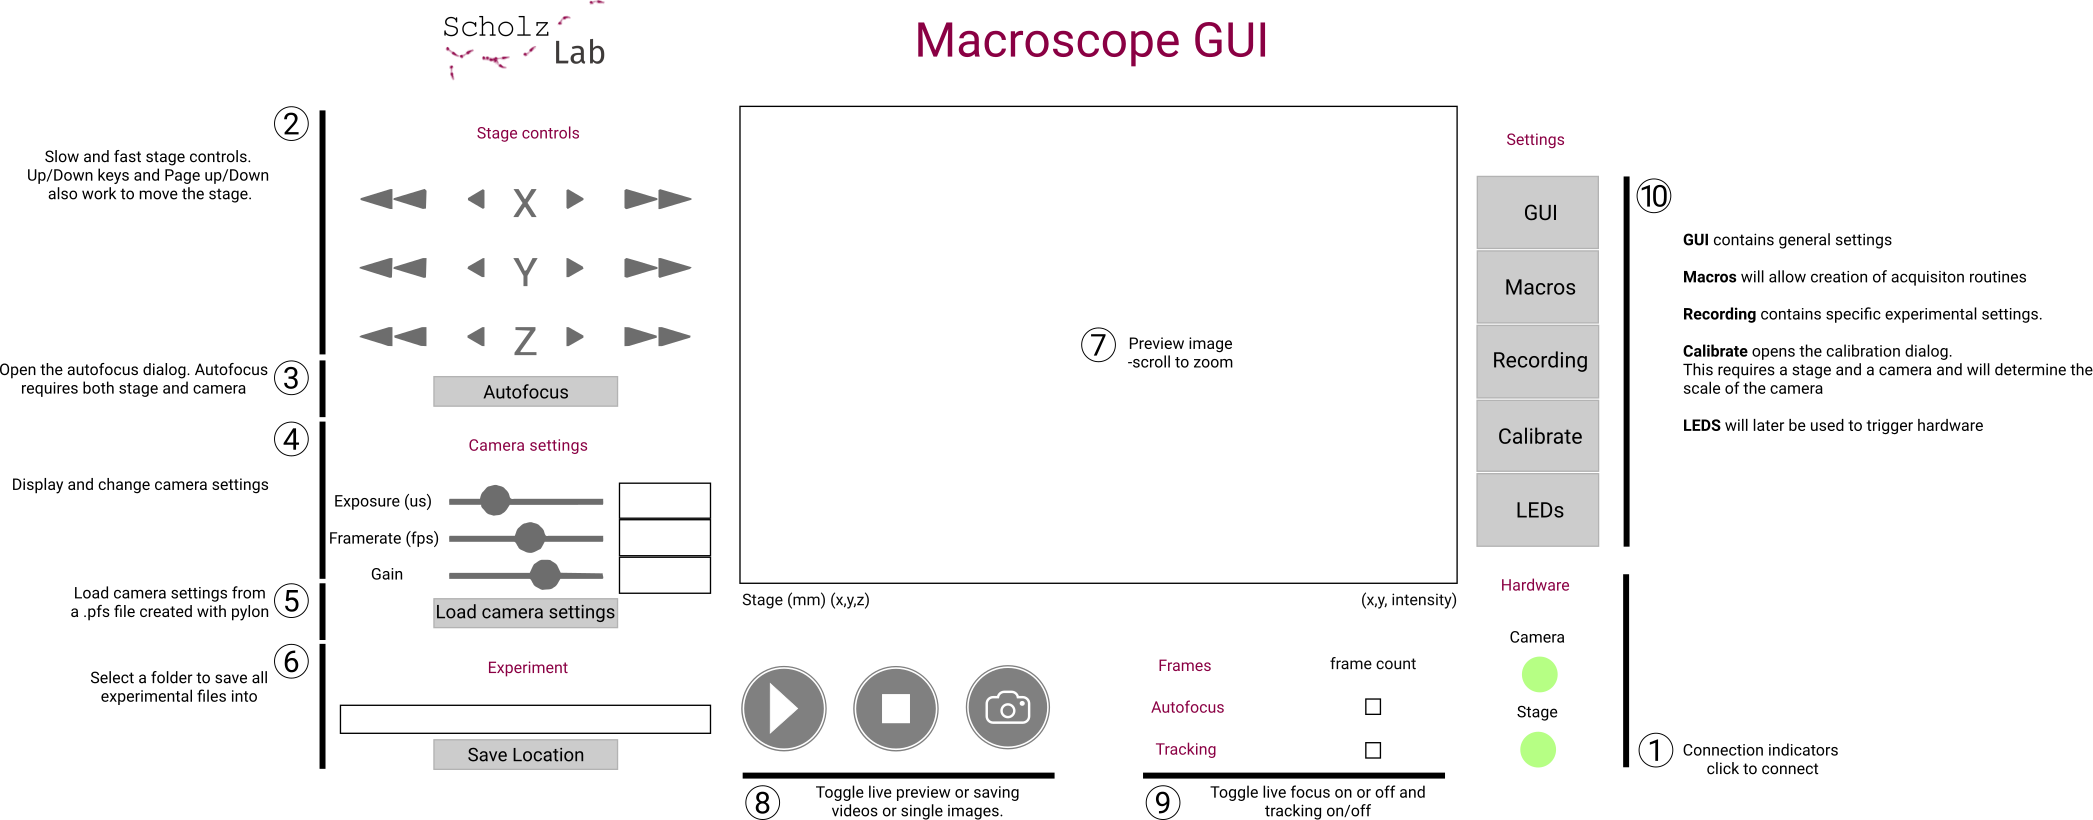
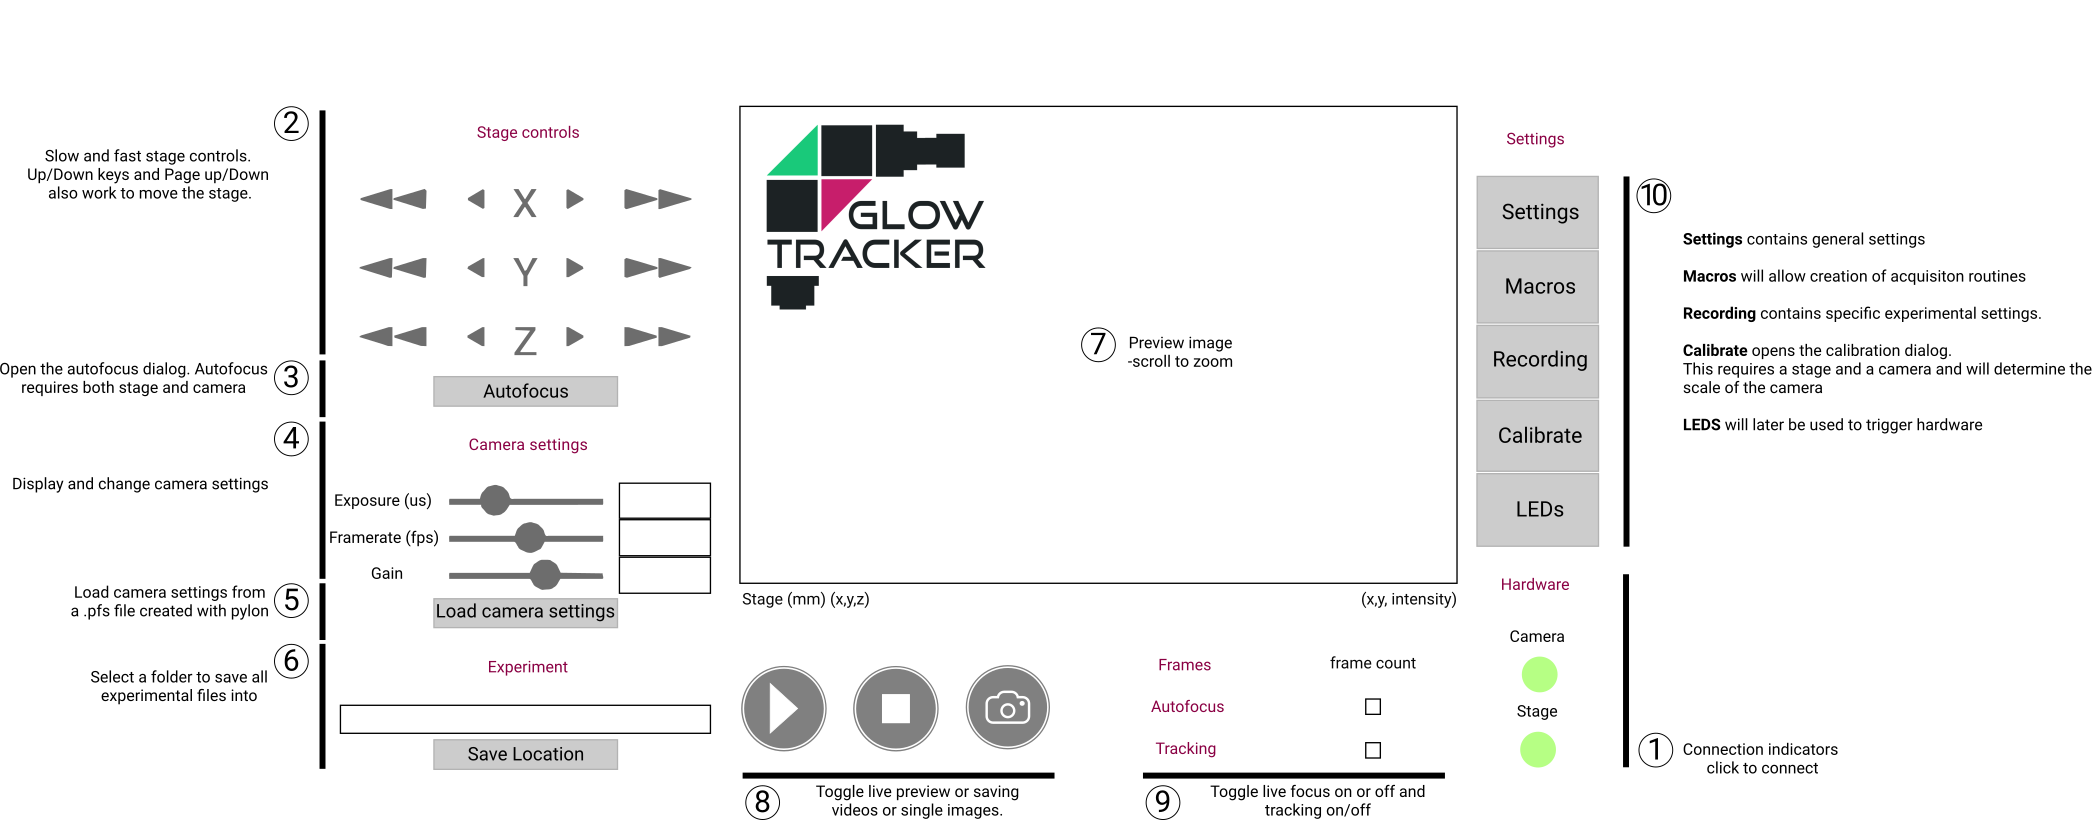
Editing Opening up the GUI section

diff --git a/docs/software/getting_started.md b/docs/software/getting_started.md
@@ -1,29 +1,42 @@
 ---
-title: 3.2 Device setup
+title: 3.2 Getting Started
 layout: default
 parent: 3. Software
 # nav_order: -1
 ---
 
 # Getting Started
-    After you have finished constructing your macroscope, connect the camera and stage's USBs to your computer.
-1. [Opening up the GUI](opening-up-the-gui) 
-2. [Connect to the stage.](connect-to-the-stage) 
-3. [Connect to the camera.](connect-to-the-camera) 
-4. [Calibrate the camera and stage relationship.](calibrate-the-camera-and-stage-relationship) 
-5. [Dual-color calibration (optional).](dual-color-calibration-(optional)) 
-6. [Set recording file path.](set-recording-file-path) 
 
-## Opening up the GUI
-In `macroscope.ini`, specify the connection `port` name to your Stage. In Windows, this is usually `port = COM3`. In Linux, usually `port = /dev/ttyUSB0`
+After you have finished constructing your macroscope, connect the camera and stage's USBs to your computer.
+1. [Opening up the GUI](#opening-the-gui) 
+2. [Connect to the stage.](#connect-to-the-stage)
+3. [Connect to the camera.](#connect-to-the-camera)
+4. [Calibrate the camera and stage relationship.](#calibrate-the-camera-and-stage-relationship) 
+5. [Dual-color calibration (optional).](#dual-color-calibration) 
+6. [Set recording file path.](#set-recording-file-path) 
 
-## Connect to the stage
+## Opening up the GUI <a name="opening-the-gui"></a>
+<p align="center">
+  <img src="../custom_assets/images/gui_annotation.png" alt="macroscope" width="100%"/>
+  <a name="gui-image"></a>
+</p>
+
+If you have never connected to the Zaber stage before, install and open [Zaber Launcher](https://software.zaber.com/zaber-launcher/download). 
+In there you can find the connection port name to your stage, usually `COM3` for Windows or `/dev/ttyUSB0` for Linux, and you can also update your stage firmware to the latest version. 
+Afterward, close the Zaber Launcher and open up the GlowTracker. 
+Open the GUI setting (TODO: point to the button), put your connection port name in the section `Stage`, field `Stage serial port`. 
+Close the setting file and click the connect to stage button (TODO: point to the button), if the button turns green then you have successfully connected the stage.
+
+You can now control the stage movement by the stage control buttons ([GUI image](#gui-image): Group 2) or the arrow keys on your keyboard. The left-right  arrow 
+
+
+## Connect to the stage <a name="connect-to-the-stage"></a>
 In `macroscope.ini`, specify path to your pylon default camera setting `default_settings`. This is a `.pfs` file that can be obtain from the `pylon Viewver` software that you have downloaded.
 
-## Connect to the camera
+## Connect to the camera <a name="connect-to-the-camera"></a>
 
-## Calibrate the camera and stage relationship
+## Calibrate the camera and stage relationship <a name="calibrate-the-camera-and-stage-relationship"></a>
 
-## Dual-color calibration (optional)
+## Dual-color calibration (optional) <a name="dual-color-calibration"></a>
 
-## Set recording file path
+## Set recording file path <a name="set-recording-file-path"></a>
